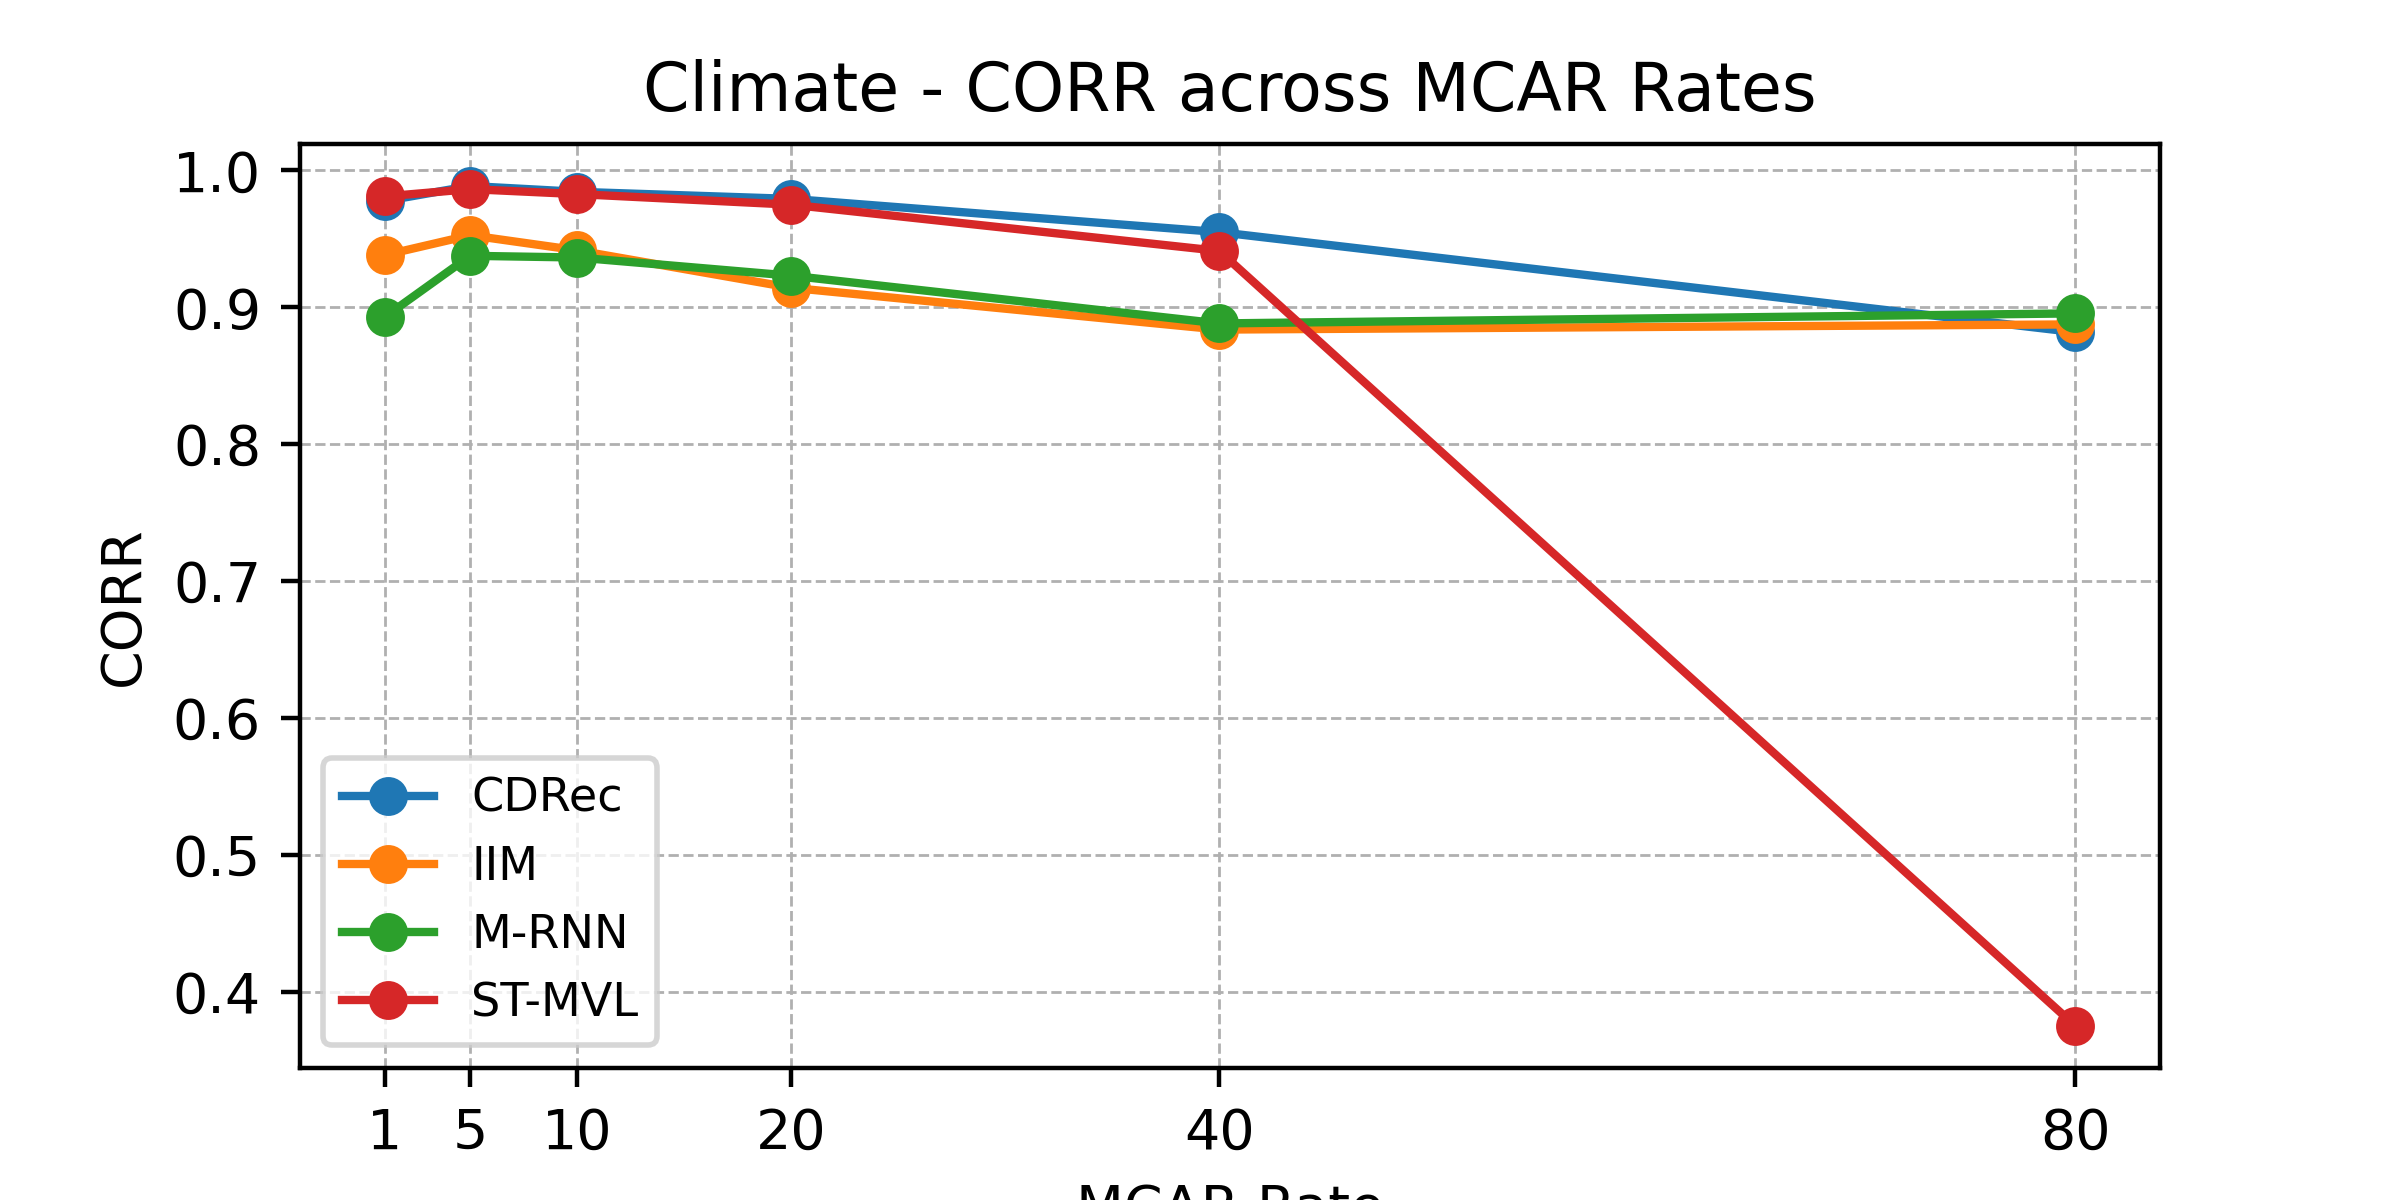
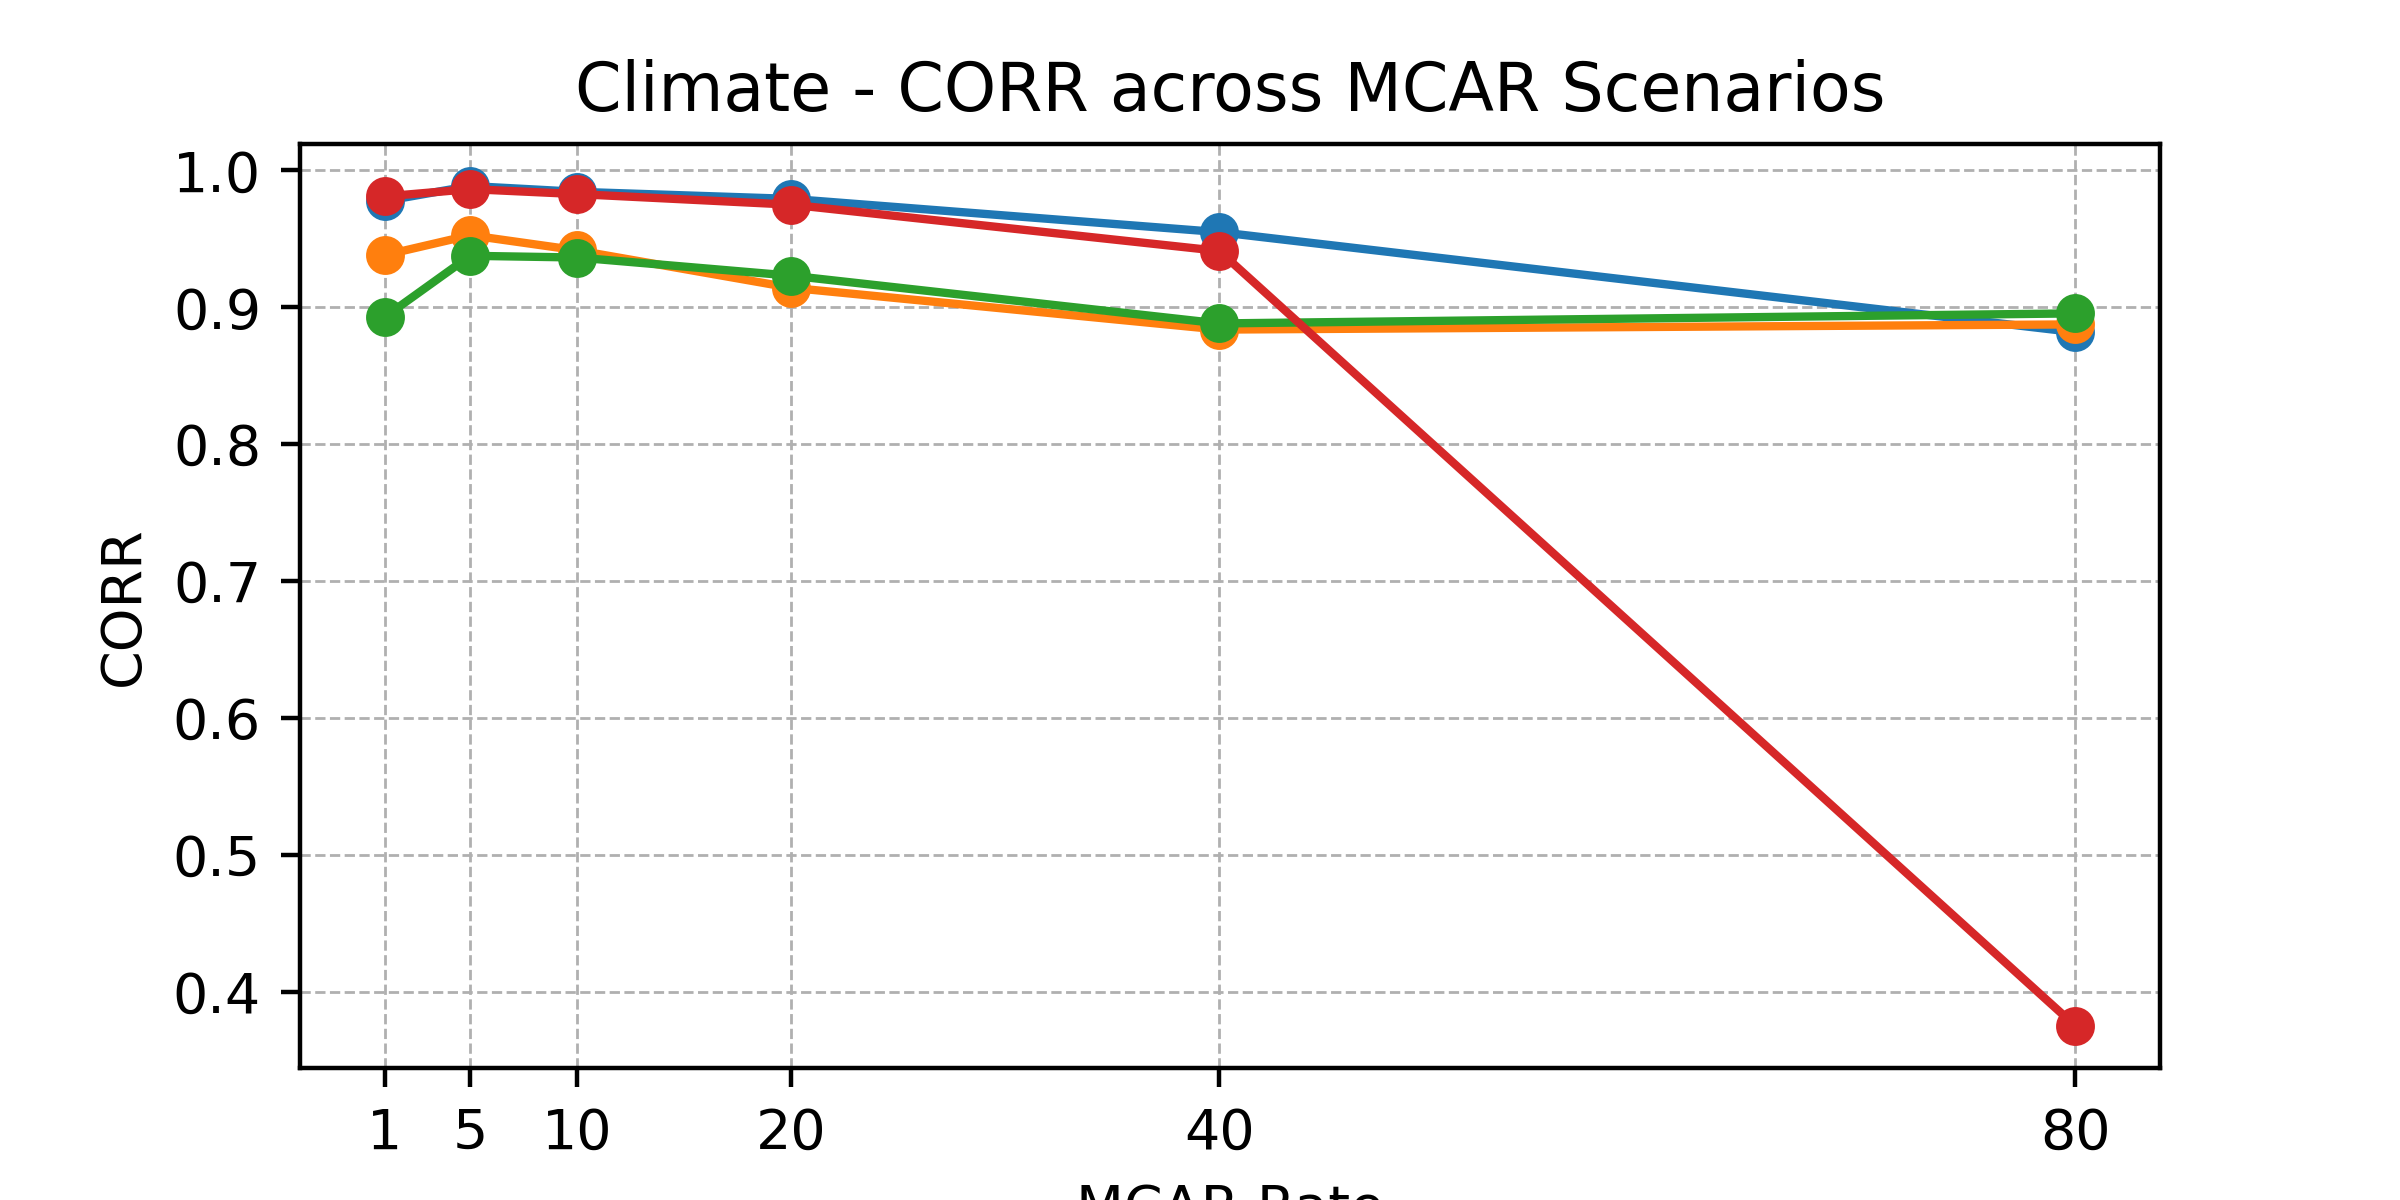
Experiment: Adjust plots for MCAR scenarios

Changed region(s): [[0.125, 0.7092, 0.2812, 0.8942], [0.2188, 0.0308, 0.7812, 0.0925], [0.125, 0.6167, 0.2812, 0.6783]]

diff --git a/Optimizer/plotter.py b/Optimizer/plotter.py
@@ -497,7 +497,7 @@ def plot_optimization_comparison(input_file_path: str,
 
 
 def plot_across_mcar_rates(metric: str, output_file_path: str,
-                           width: int = 10, height: int = 6, dpi: int = 100) -> None:
+                           width: int = 10, height: int = 6, dpi: int = 400) -> None:
     """
     Plots the metric across different MCAR rates for all datasets and algorithms.
 
@@ -531,16 +531,49 @@ def plot_across_mcar_rates(metric: str, output_file_path: str,
                 y_values.append(result[metric])
             plt.plot(mcar_rates, y_values, label=util.mapper(alg), marker='o')
 
-        plt.title(f"{dataset.capitalize()} - {util.mapper(metric)} across MCAR Rates")
+        plt.title(f"{dataset.capitalize()} - {util.mapper(metric)} across MCAR Scenarios")
         plt.xlabel('MCAR Rate')
         plt.ylabel(util.mapper(metric))
-        plt.legend(fontsize='small')
+        # plt.legend(fontsize='small')
         plt.grid(True, which='both', linestyle='--', linewidth=0.5)
         plt.xticks(mcar_rates)
 
         file_name = f"{dataset}_{metric}_across_mcar_rates.png"
         plt.savefig(os.path.join(output_file_path, file_name), dpi=dpi)
         plt.close()
+
+
+def save_legend_only(output_file_path: str, dpi: int = 100) -> None:
+    """
+    Generates and saves only the legend using representative data.
+
+    Parameters
+    ----------
+    output_file_path : str
+        Directory path to save the legend.
+    dpi : int, optional
+        Dots per inch for the saved legend, by default 100.
+    """
+    algorithms = ["cdrec", "iim", "mrnn", "stmvl"]
+    mcar_rate = 1  # representative MCAR rate
+    dataset = "bafu"  # representative dataset
+    metric = "rmse"  # representative metric
+    base_path = "results/{alg}/{alg}_optimized_summary_results_mcar_{mcar}.json"
+
+    plt.figure(figsize=(10, 2))  # Adjust for desired legend size
+    for alg in algorithms:
+        file_path = base_path.format(alg=alg, mcar=mcar_rate)
+        result = util.read_json_for_metric(file_path, dataset + "_rmse_mae")
+        plt.plot([0, 1], [result[metric], result[metric]], label=util.mapper(alg))
+
+    # Create horizontal legend
+    legend = plt.legend(loc='center', ncol=len(algorithms), frameon=False)
+    plt.gca().set_axis_off()
+    plt.subplots_adjust(top=1, bottom=0, left=0, right=1)
+    plt.margins(0, 0)
+    plt.gca().xaxis.set_major_locator(plt.NullLocator())
+    plt.gca().yaxis.set_major_locator(plt.NullLocator())
+    plt.savefig(os.path.join(output_file_path, "legend_only.png"), dpi=dpi, bbox_inches='tight', pad_inches=0)
 
 
 if __name__ == '__main__':
@@ -569,3 +602,4 @@ if __name__ == '__main__':
 
     for metric_to_plot in ["rmse", "mi", "corr", "time_taken"]:
         plot_across_mcar_rates(metric_to_plot, 'figures/scenario', width=6, height=3, dpi=400)
+    save_legend_only('figures/scenario', dpi=400)

diff --git a/Optimizer/extract_and_compare_results.py b/Optimizer/extract_and_compare_results.py
@@ -1407,8 +1407,8 @@ if __name__ == '__main__':
     ####
 
     ##### Step 2: Run imputation using the best params
-    # cdrec_optimal_results(results_path="results/cdrec", mcar_scenario=True)
-    # iim_optimal_results(results_path="results/iim", mcar_scenario=True)
+    cdrec_optimal_results(results_path="results/cdrec", mcar_scenario=True)
+    iim_optimal_results(results_path="results/iim", mcar_scenario=True)
     mrnn_optimal_results(results_path="results/mrnn", mcar_scenario=True)
     stmvl_optimal_results(results_path="results/stmvl", mcar_scenario=True)
 
